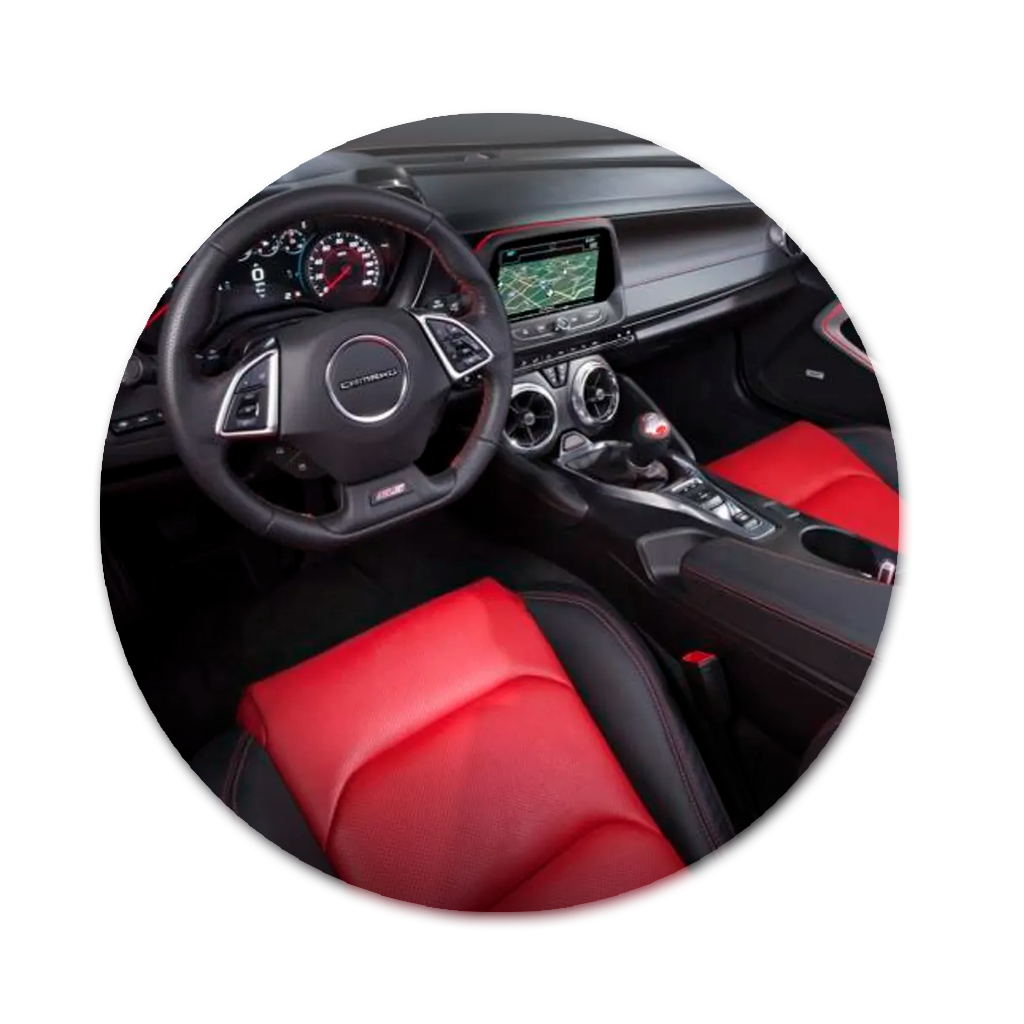
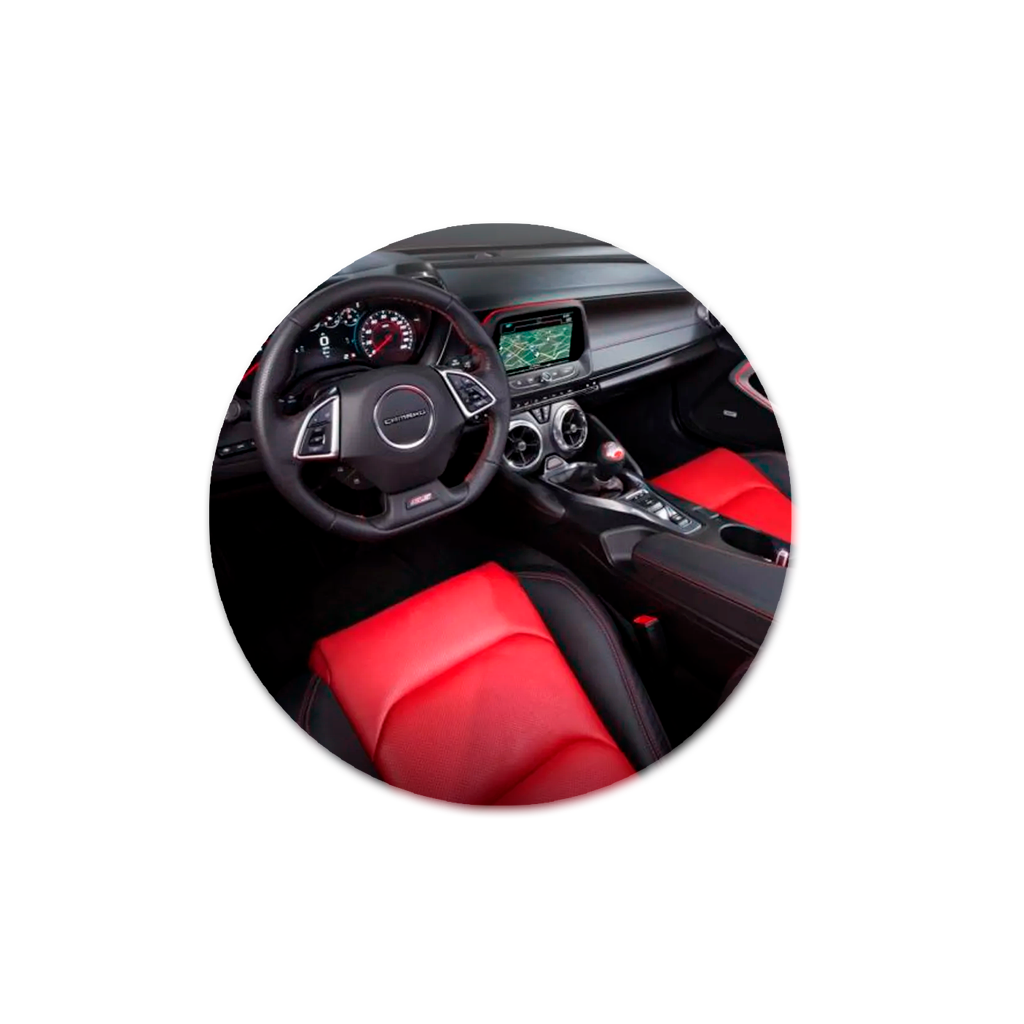
actualizacion diseño

diff --git a/src/app/components/Navbar.js b/src/app/components/Navbar.js
@@ -9,27 +9,27 @@ import { useState } from 'react';
 export default function Navbar() {
   const { cartLength } = useAppContext();
   const [showVehicles, setShowVehicles] = useState(false);
-  const [vehicleQuoted, setVehicleQuoted] = useState(false); // Estado para la alerta
-  let timer; // Variable para el temporizador
+  const [vehicleQuoted, setVehicleQuoted] = useState(false);
+  let timer; 
 
   const handleVehiclesHover = () => {
-    clearTimeout(timer); // Limpia el temporizador si está activo
+    clearTimeout(timer); 
     setShowVehicles(true);
   };
 
   const handleVehiclesLeave = () => {
-    // Inicia un temporizador para cerrar el menú después de un breve período
+   
     timer = setTimeout(() => {
       setShowVehicles(false);
-    }, 200); // Puedes ajustar el tiempo en milisegundos (por ejemplo, 300ms)
+    }, 200); 
   };
 
-  // Función para mostrar la alerta de vehículo cotizado
+
   const handleQuoteAlert = () => {
     setVehicleQuoted(true);
     setTimeout(() => {
-      setVehicleQuoted(false); // Ocultar la alerta después de un tiempo
-    }, 3000); // La alerta se oculta después de 3 segundos
+      setVehicleQuoted(false); 
+    }, 3000); 
   };
 
   return (
@@ -57,10 +57,10 @@ export default function Navbar() {
                 className={`absolute top-full left-0 mt-2 w-[1400px] bg-white text-black rounded-lg shadow-lg z-20 pl-10 transition-all duration-250 ease-out transform ${
                   showVehicles ? 'opacity-100 translate-y-0 visible' : 'opacity-0 -translate-y-2 invisible'
                 }`}
-                onMouseEnter={handleVehiclesHover} // Mantener abierto cuando el mouse está dentro del menú
-                onMouseLeave={handleVehiclesLeave} // Cerrar cuando el mouse sale del menú
+                onMouseEnter={handleVehiclesHover}
+                onMouseLeave={handleVehiclesLeave} 
               >
-                <ProductsGrid onQuote={handleQuoteAlert} /> {/* Pasa la función al ProductsGrid */}
+                <ProductsGrid onQuote={handleQuoteAlert} /> 
               </div>
             </li>
             <li>
@@ -83,11 +83,10 @@ export default function Navbar() {
         <div className='relative'>
           <FaCartShopping size={30} />
           {cartLength > 0 && (
-            <span className='absolute top-5 left-5 flex items-center justify-center bg-black text-white rounded-full w-2 h-4 p-4 text-sm'>
+            <span className='absolute top-5 left-5 flex items-center justify-center bg-yellow-500 text-white rounded-full w-2 h-4 p-3 text-sm'>
               {cartLength}
             </span>
           )}
-          {/* Alerta de vehículo cotizado */}
           {vehicleQuoted && (
             <span className='absolute top-0 left-10 bg-yellow-500 text-black p-2 rounded-lg transition-opacity duration-300'>
               Vehículo cotizado!

diff --git a/src/app/components/CustomizeProduct.js b/src/app/components/CustomizeProduct.js
@@ -40,7 +40,6 @@ const CustomizeProduct = ({ product, onComplete }) => {
     { name: "Cuero rojo", image: "/imgs/cuero_rojo.png" },
   ];
 
-  // Imagen del vehículo según el color seleccionado o imagen del interior si está seleccionado
   const selectedVehicleImage = selectedTab === "interior" 
     ? interior 
       ? interiorOptions.find(opt => opt.name === interior)?.image 
@@ -110,23 +109,20 @@ const CustomizeProduct = ({ product, onComplete }) => {
   };
 
   return (
-    <div className="customization-container p-4 flex pb-60"> {/* Agregar padding-bottom aquí */}
-      {/* Imagen del Vehículo o Interior */}
+    <div className="customization-container p-5 flex pb-60"> 
       <div className="w-1/2 flex justify-center items-center">
         {selectedVehicleImage ? (
-          <Image src={selectedVehicleImage} alt={product.name} width={500} height={500} />
+          <Image src={selectedVehicleImage} alt={product.name} width={600} height={500} />
         ) : (
           <p className="text-center text-gray-500">Seleccione un color o un interior</p>
         )}
       </div>
 
-      {/* Sección de Personalización o Resumen Final */}
       <div className="w-1/2 pl-8">
         <h2 className="text-3xl font-bold mb-6">{product.name}</h2>
 
         {showFinalSummary ? (
           <div>
-            {/* Resumen final */}
             <div className="mt-8 p-4 border-t border-gray-200 text-lg">
               <h4 className="text-2xl font-semibold mb-4">Resumen final</h4>
               <p className="text-gray-700">Modelo: {model || "No seleccionado"}</p>
@@ -151,7 +147,6 @@ const CustomizeProduct = ({ product, onComplete }) => {
           </div>
         ) : (
           <>
-            {/* Menú de opciones con subrayado dinámico */}
             <div className="flex gap-8 mb-6 relative text-xl font-semibold">
               <button
                 onClick={() => setSelectedTab("model")}
@@ -182,10 +177,8 @@ const CustomizeProduct = ({ product, onComplete }) => {
               />
             </div>
 
-            {/* Opciones de Personalización */}
             {renderOptions()}
 
-            {/* Resumen de selección durante la elección */}
             <div className="mt-8 p-4 border-t border-gray-200 text-lg">
               <h4 className="text-xl font-semibold">Resumen de selección</h4>
               {model && <p className="text-gray-700">Modelo seleccionado: {model}</p>}

diff --git a/src/app/components/ProductSingle.js b/src/app/components/ProductSingle.js
@@ -20,9 +20,9 @@ const ProductSingle = ({ product }) => {
   const { handleAddToCart } = useAppContext();
 
   const handleCustomizeComplete = (options) => {
-    setSelectedOptions(options); // Actualizar opciones seleccionadas
-    setShowCustomize(false); // Volver a la vista del producto
-    setHasCustomized(true); // Indicar que la personalización ha sido completada
+    setSelectedOptions(options); 
+    setShowCustomize(false); 
+    setHasCustomized(true); 
   };
 
   const addToCart = () => {
@@ -42,24 +42,21 @@ const ProductSingle = ({ product }) => {
     <div className="py-40 pb-60">
       {!showCustomize ? (
         <div className="grid grid-cols-12 bg-white p-8">
-          {/* Imagen del Producto con el último color seleccionado */}
           <div className="col-span-6 flex justify-center items-center">
             <Image
               src={`/imgs/${selectedOptions.image}`}
-              width={600}
+              width={650}
               height={600}
               alt={name}
               className=""
             />
           </div>
 
-          {/* Detalles del Producto */}
           <div className="col-span-6 flex flex-col items-start pl-8">
             <h1 className="text-3xl font-bold text-black mb-2">{name}</h1>
             <p className="text-xl font-bold text-black mb-4">{description}</p>
             <h3 className="text-3xl font-bold text-black mb-6">Precio estimado: ${price}</h3>
 
-            {/* Resumen de Personalización */}
             {hasCustomized && (
               <div className="mt-8 p-4 border-t border-gray-200 text-lg">
                 <h4 className="text-2xl font-semibold mb-4">Resumen final</h4>
@@ -69,7 +66,6 @@ const ProductSingle = ({ product }) => {
               </div>
             )}
 
-            {/* Botón de Cotizar ahora */}
             <button
               onClick={addToCart}
               className="bg-yellow-500 text-white py-3 px-6 rounded-lg shadow-lg hover:bg-yellow-600 transition-colors text-lg mt-6"
@@ -77,7 +73,6 @@ const ProductSingle = ({ product }) => {
               Cotizar ahora!
             </button>
 
-            {/* Solo mostrar el botón de Personalizar si no se ha completado la personalización */}
             {!hasCustomized && (
               <button
                 className="bg-blue-500 text-white py-3 px-6 rounded-lg shadow-lg hover:bg-blue-600 transition-colors text-lg mt-4"

diff --git a/src/app/components/ProductsGrid.js b/src/app/components/ProductsGrid.js
@@ -29,10 +29,9 @@ export default function ProductsGrid({ onCotizaClick }) {
     <section className="mb-16 pt-10">
       <Inner>
         <div className="grid grid-cols-12 gap-6">
-          {/* Columna izquierda para categorías */}
             <div className="col-span-2 bg-white p-6 rounded-lg">
             <h2 className="text-4xl font-bold mb-2">All the Vehicles</h2>
-            <ul className="text-3xl font-semibold space-y-2"> {/* Cambia aquí a text-4xl para un texto más grande */}
+            <ul className="text-3xl font-semibold space-y-2"> 
               <li>Electric</li>
               <li>SUV</li>
               <li>Trucks</li>
@@ -48,14 +47,13 @@ export default function ProductsGrid({ onCotizaClick }) {
                     : 'bg-gray-200 text-gray-800 cursor-not-allowed'
                 }`}
                 disabled={!selectedVehicle}
-                onClick={onCotizaClick} // Llamar a onCotizaClick al hacer clic
+                onClick={onCotizaClick} 
               >
                 Cotizá ahora!
               </button>
             </Link>
           </div>
 
-          {/* Columna derecha para la galería de vehículos */}
           <div className="col-span-9 grid grid-cols-4 gap-6">
             {products.map((item) => (
               <ProductCard

diff --git a/src/app/components/cart/ProductsCheckout.js b/src/app/components/cart/ProductsCheckout.js
@@ -10,18 +10,16 @@ const ProductsCheckout = () => {
     <div className="p-8 bg-gray-100 rounded-lg">
       {cart.map((product) => (
         <div key={product.id} className="flex flex-col items-start mb-6">
-          {/* Imagen del vehículo en su último color seleccionado */}
           <div className="flex justify-center w-full mb-6">
             <Image
               src={`/imgs/${product.image}`}
               alt={product.name}
-              width={300}
-              height={300}
+              width={500}
+              height={500}
               className="rounded-lg"
             />
           </div>
 
-          {/* Resumen de selección */}
           <div className="text-left w-full">
             <h3 className="text-3xl font-bold mb-4">{product.name}</h3>
             <p className="text-xl mb-2"><span className="font-semibold">Modelo:</span> {product.model}</p>

diff --git a/src/app/api/customizationOptions.js b/src/app/api/customizationOptions.js
@@ -1,13 +1,13 @@
-import dbConnect from '@/lib/dbConnect'; // Ajusta la ruta si es necesario
+import dbConnect from '@/lib/dbConnect'; 
 import CustomizationOptions from '@/models/CustomizationOptions';
 
 export default async function handler(req, res) {
   await dbConnect();
 
   try {
-    const options = await CustomizationOptions.find(); // Obtener todos los documentos de la colección
-    console.log(options); // Log para verificar la salida
-    res.status(200).json(options); // Devolver los datos en formato JSON
+    const options = await CustomizationOptions.find(); 
+    console.log(options);
+    res.status(200).json(options); 
   } catch (error) {
     console.error("Error fetching customization options:", error);
     res.status(500).json({ message: 'Error fetching customization options' });

diff --git a/src/app/cart/page.js b/src/app/cart/page.js
@@ -4,11 +4,10 @@ import CartForm from "../components/CartForm/CartForm";
 
 const Cart = () => {
   return (
-    <section className="h-auto mt-12 mb-12 py-12 pb-40 bg-white"> {/* Fondo blanco y mayor margen */}
+    <section className="h-auto mt-12 mb-12 py-12 pb-40 bg-white">
       <Inner>
         <div className="grid grid-cols-12 gap-8">
           <div className="col-span-12 lg:col-span-7 bg-white p-8 shadow-lg rounded-lg">
-            {/* Título más grande y resaltado */}
             <h2 className="text-3xl font-bold mb-6 text-black">
               Vehículo a Cotizar
             </h2>
